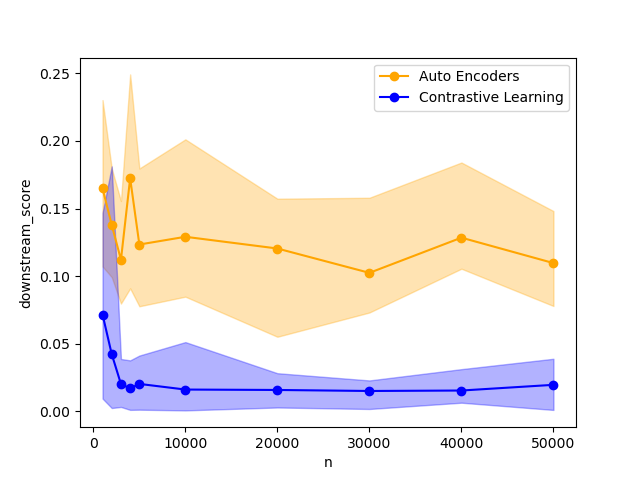
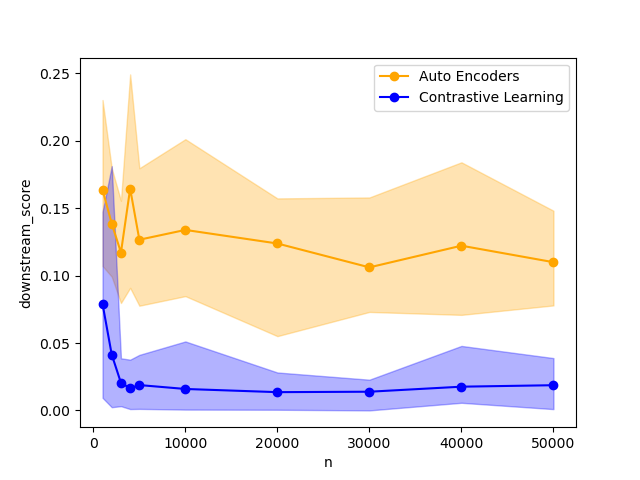
minor edits

diff --git a/run_experiments.py b/run_experiments.py
@@ -74,8 +74,8 @@ def run_all_exp(args):
 
 if __name__ == "__main__":
     args = obtain_args()
-    seeds = range(8, 10)
-    # seeds = range(10)
+    # seeds = range(8, 10)
+    seeds = range(10)
 
     for seed in seeds:
         args.seed = seed

diff --git a/visualize_results.py b/visualize_results.py
@@ -35,7 +35,7 @@ def plot_graph(experiment, metric, seeds):
     plt.clf()
 
 if __name__ == "__main__":
-    seeds = range(8)
+    seeds = range(10)
 
     experiment = "increase_n"
     # experiment = "increase_dimension_d"
